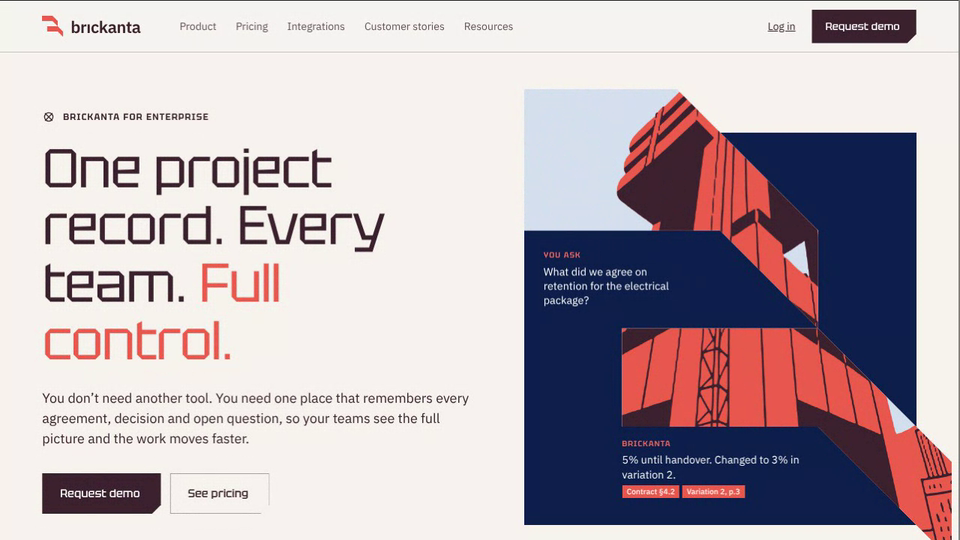
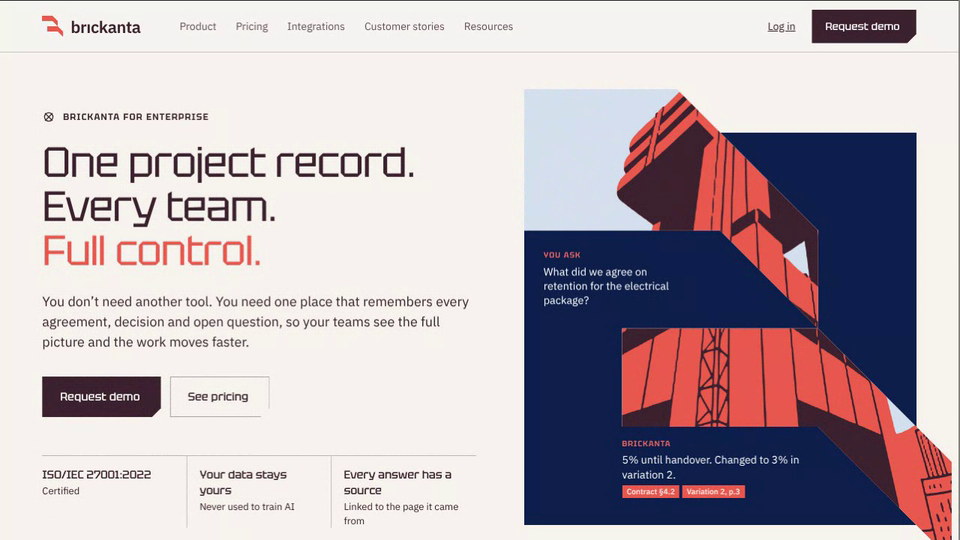
Brickanta Enterprise: three-line hero headline, labelled top line and middle divider in the cost section
Claude-Session: https://claude.ai/code/session_01AHeBdyM2bYAGUeyg7LiTk8

Changed region(s): [[0.0312, 0.2667, 0.5, 0.8296], [0.0312, 0.8593, 0.3125, 0.9778], [0.3438, 0.8593, 0.4688, 0.9778]]

diff --git a/brickanta-enterprise/index.html b/brickanta-enterprise/index.html
@@ -74,7 +74,8 @@ header nav a{text-decoration:none;opacity:.78}header nav a:hover{opacity:1;text-
 /* hero */
 .hero{padding:clamp(40px,6vw,88px) 0 clamp(56px,7vw,100px);position:relative;overflow-x:clip}
 .hero .wrap{display:grid;grid-template-columns:minmax(0,1.05fr) minmax(0,.95fr);gap:clamp(24px,5vw,80px);align-items:center}
-.hero h1{font-size:clamp(38px,5.7vw,88px);margin:22px 0 26px}
+.hero h1{font-size:clamp(30px,4.4vw,68px);margin:22px 0 26px}
+.hero h1 span{display:block;white-space:nowrap}
 .hero h1 em{font-style:normal;color:var(--coral)}
 .facts{display:grid;grid-template-columns:repeat(3,1fr);margin-top:clamp(32px,4vw,56px);font-size:13px;line-height:1.4}
 .facts div{padding:16px 16px 0 0;position:relative}
@@ -100,14 +101,20 @@ header nav a{text-decoration:none;opacity:.78}header nav a:hover{opacity:1;text-
 @media(max-width:860px){.hero .wrap{grid-template-columns:1fr}.tile{justify-self:start;max-width:440px}.facts{grid-template-columns:1fr}.facts div+div{border-left:0;padding-left:0;border-top:1px solid rgba(60,34,46,.25);margin-top:16px}}
 
 /* the real cost */
-.cost-list{border-top:1px solid rgba(212,224,238,.3)}
-.cost{display:grid;grid-template-columns:90px minmax(0,1fr) minmax(0,1fr);gap:clamp(16px,3vw,48px);padding:clamp(28px,3.4vw,48px) 0;border-bottom:1px solid rgba(212,224,238,.3)}
+.cost-list{border-top:1px solid rgba(212,224,238,.55)}
+.cost-head{display:grid;grid-template-columns:118px minmax(0,1fr) minmax(0,1fr);font-size:11px;font-weight:600;letter-spacing:.16em;text-transform:uppercase;color:var(--coral2)}
+.cost-head span{padding-bottom:12px}
+.cost-head .hs{padding-left:clamp(24px,3vw,48px)}
+.cost{display:grid;grid-template-columns:118px minmax(0,1fr) minmax(0,1fr);border-bottom:1px solid rgba(212,224,238,.3)}
+.cost>div{padding:clamp(28px,3.4vw,48px) 0}
+.cost .cp{padding-right:clamp(24px,3vw,48px)}
+.cost .cs{padding-left:clamp(24px,3vw,48px);border-left:1px solid rgba(212,224,238,.4)}
 .cost .n{font-size:clamp(40px,5vw,72px);font-weight:200;line-height:.9;color:var(--coral2)}
-.cost .lbl{font-size:11px;font-weight:600;letter-spacing:.16em;text-transform:uppercase;opacity:.6;margin-bottom:12px}
 .cost q{display:block;quotes:none;font-size:clamp(20px,2vw,28px);font-weight:300;line-height:1.25;letter-spacing:-.01em;color:#fff}
 .cost h3{font-size:clamp(20px,2vw,28px);color:#fff;margin-bottom:10px}
 .cost p{opacity:.78;font-size:16px}
-@media(max-width:860px){.cost{grid-template-columns:1fr}.cost .n{font-size:40px}}
+@media(max-width:860px){.cost-head{display:none}.cost{grid-template-columns:1fr;padding:28px 0}.cost>div{padding:0}.cost>div+div{margin-top:20px}.cost .cs{border-left:0;padding-left:0}.cost .n{font-size:40px}
+.cost>div[data-l]::before{content:attr(data-l);display:block;font-size:11px;font-weight:600;letter-spacing:.16em;text-transform:uppercase;color:var(--coral2);margin-bottom:10px}}
 
 /* one system: tabbed showcase */
 .sys{display:grid;grid-template-columns:minmax(190px,.62fr) minmax(0,2.2fr) minmax(0,1.7fr);min-height:clamp(560px,50vw,700px)}
@@ -339,7 +346,7 @@ h1,h2,h3,.cost q,.tabs .t,.card .big,.faq summary,footer .tag{letter-spacing:-.0
   <div class="wrap">
     <div>
       <div class="eyebrow rv"><svg class="bp"><use href="#bp"/></svg>Brickanta for Enterprise</div>
-      <h1 class="rv" style="--d:.08s">One project record. Every team. <em>Full control.</em></h1>
+      <h1 class="rv" style="--d:.08s"><span>One project record.</span> <span>Every team.</span> <span><em>Full control.</em></span></h1>
       <p class="lede rv" style="--d:.16s">You don’t need another tool. You need one place that remembers every agreement, decision and open question, so your teams see the full picture and the work moves faster.</p>
       <div class="row-btns rv" style="--d:.24s"><a class="btn" href="#demo">Request demo</a><a class="btn alt" href="#pricing">See pricing</a></div>
       <div class="facts rv" style="--d:.32s">
@@ -365,10 +372,11 @@ h1,h2,h3,.cost q,.tabs .t,.card .big,.faq summary,footer .tag{letter-spacing:-.0
       <h2 class="rv">You can’t run a big project on lost knowledge</h2>
       <p class="lede rv" style="--d:.1s">When what you agreed lives in inboxes and in people’s heads, it’s gone the moment they move on.</p>
     </div>
+    <div class="cost-head" aria-hidden="true"><span></span><span class="hp">The problem</span><span class="hs">The solution</span></div>
     <div class="cost-list">
-      <div class="cost rv"><div class="n">01</div><div><div class="lbl">The problem</div><q>“Every project keeps its facts somewhere different. Nobody knows which version is right.”</q></div><div><div class="lbl">The solution</div><h3>One record for the whole team</h3><p>Everyone works from the same project. A problem shows up early, on the work package it affects.</p></div></div>
-      <div class="cost rv"><div class="n">02</div><div><div class="lbl">The problem</div><q>“We only saw the invoice didn’t match the contract after it was paid.”</q></div><div><div class="lbl">The solution</div><h3>Catch it while there’s time</h3><p>An invoice that differs from the contract, or a delivery that puts the schedule at risk, is flagged as soon as the files arrive.</p></div></div>
-      <div class="cost rv"><div class="n">03</div><div><div class="lbl">The problem</div><q>“When people leave, what they agreed leaves with them.”</q></div><div><div class="lbl">The solution</div><h3>Keep what you learn</h3><p>Decisions, suppliers and lessons stay with the project and are there for the next one, even when people move on.</p></div></div>
+      <div class="cost rv"><div class="n">01</div><div class="cp" data-l="The problem"><q>“Every project keeps its facts somewhere different. Nobody knows which version is right.”</q></div><div class="cs" data-l="The solution"><h3>One record for the whole team</h3><p>Everyone works from the same project. A problem shows up early, on the work package it affects.</p></div></div>
+      <div class="cost rv"><div class="n">02</div><div class="cp" data-l="The problem"><q>“We only saw the invoice didn’t match the contract after it was paid.”</q></div><div class="cs" data-l="The solution"><h3>Catch it while there’s time</h3><p>An invoice that differs from the contract, or a delivery that puts the schedule at risk, is flagged as soon as the files arrive.</p></div></div>
+      <div class="cost rv"><div class="n">03</div><div class="cp" data-l="The problem"><q>“When people leave, what they agreed leaves with them.”</q></div><div class="cs" data-l="The solution"><h3>Keep what you learn</h3><p>Decisions, suppliers and lessons stay with the project and are there for the next one, even when people move on.</p></div></div>
     </div>
   </div>
 </section>
